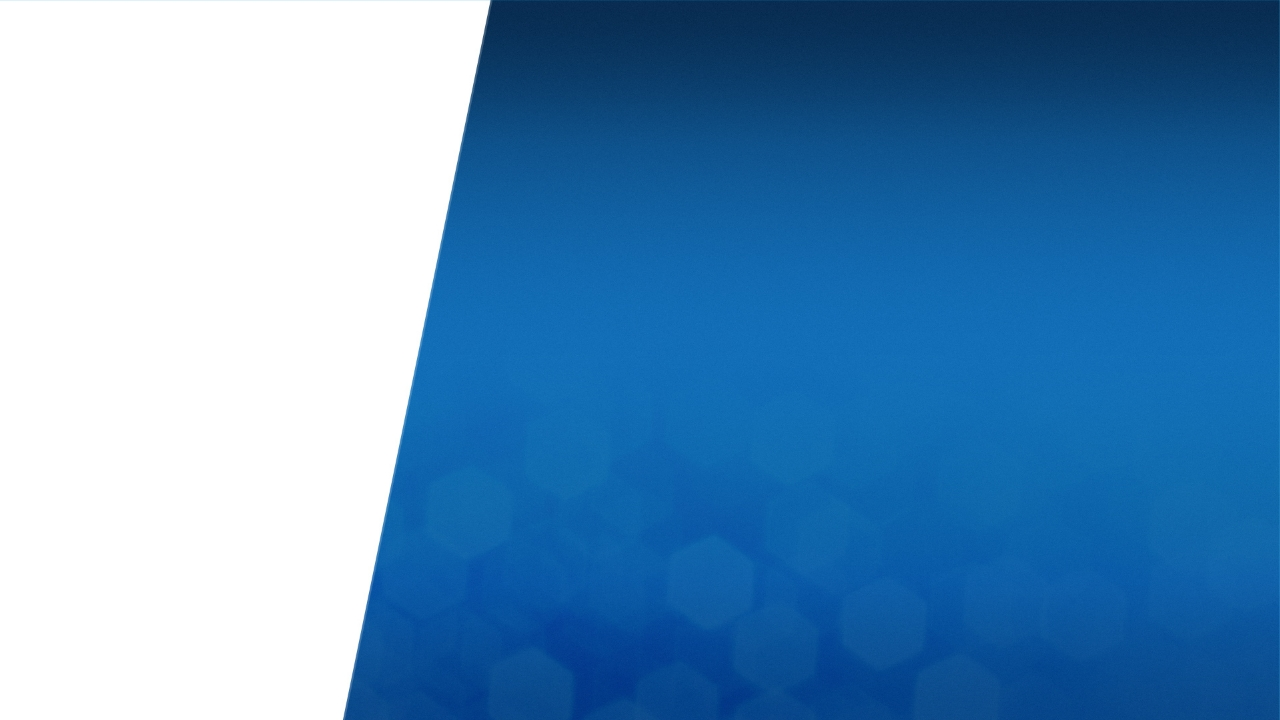
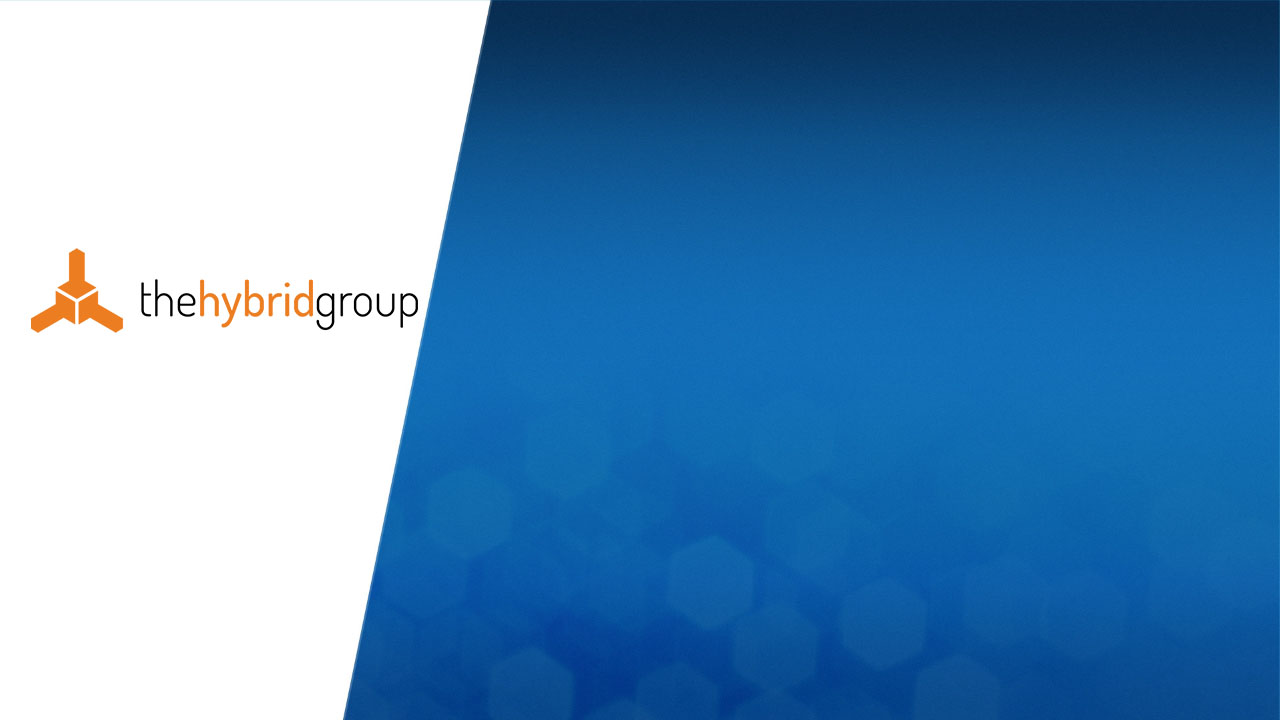
speaker slide styles

Changed region(s): [[0.0, 0.3361, 0.3438, 0.4583]]

diff --git a/index.html b/index.html
@@ -52,29 +52,14 @@
           <h2 class="text-blue">This is #df14</h2>
         </section>
 
-        <section data-background="images/bg-speaker.jpg">
-          <h2>I am @deadprogram</h2>
+        <section class="speaker" data-background="images/bg-speaker.jpg">
+          <h2>Ron Evans</h2>
+          <h3>Ring Leader</h3>
         </section>
 
-        <section>
-          <h2>Ringleader</h2>
-          <h3>@hybrid_group</h3>
-        </section>
-
-        <section>
-          <h2>The other guy is @adzankich</h2>
-        </section>
-
-        <section>
-          <h2>Serious Programming Guy</h2>
-          <h3>@hybrid_group</h3>
-        </section>
-
-        <section>
-          <div class="image-container">
-            <img src="images/thg-logo.png">
-          </div>
-          <h3>hybridgroup.com</h3>
+        <section class="speaker" data-background="images/bg-speaker.jpg">
+          <h2>Adrian Zankich</h2>
+          <h3>Serious Programming Guy</h3>
         </section>
 
         <section>

diff --git a/css/theme/dreamforce.css b/css/theme/dreamforce.css
@@ -74,8 +74,6 @@ body {
 .reveal section img {
   margin: 15px 0px;
   background: rgba(255, 255, 255, 0.12);
-  border: 4px solid black;
-  box-shadow: 0 0 10px rgba(0, 0, 0, 0.15);
   -webkit-transition: all .2s linear;
   -moz-transition: all .2s linear;
   -ms-transition: all .2s linear;
@@ -84,8 +82,7 @@ body {
 
 .reveal a:hover img {
   background: rgba(255, 255, 255, 0.2);
-  border-color: darkblue;
-  box-shadow: 0 0 20px rgba(0, 0, 0, 0.55); }
+  border-color: darkblue; }
 
 /*********************************************
  * NAVIGATION CONTROLS
@@ -157,4 +154,19 @@ body {
 
 .text-blue {
   color: #009CDB !important;
+}
+
+.speaker h2, .speaker h3 {
+  color: #fff;
+  text-align: left;
+  margin-left: 240px;
+  text-transform: none;
+}
+
+.speaker h2 {
+  font-weight: bold;
+}
+
+.speaker h3 {
+  color: #8BDEF2;
 }

diff --git a/css/hybrid.css b/css/hybrid.css
@@ -3,8 +3,6 @@
   display: inline-block;
   padding: 20px;
   margin-bottom: 20px;
-  border: 10px solid rgb(244, 244, 244);
-  border-top-color: transparent;
 }
 
 .reveal .image-container img {
